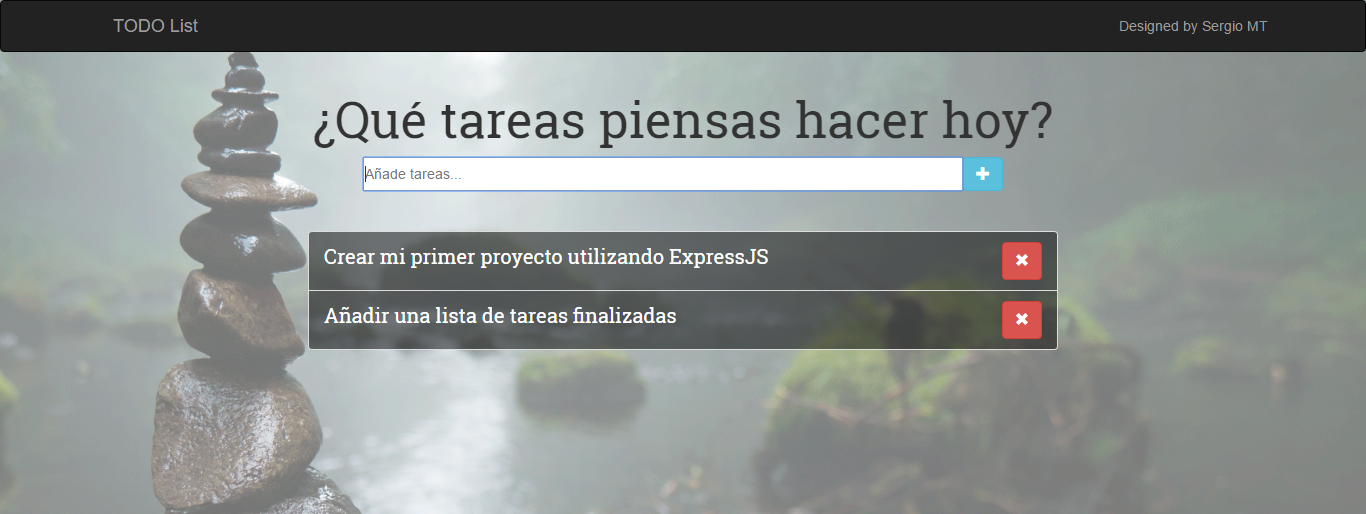
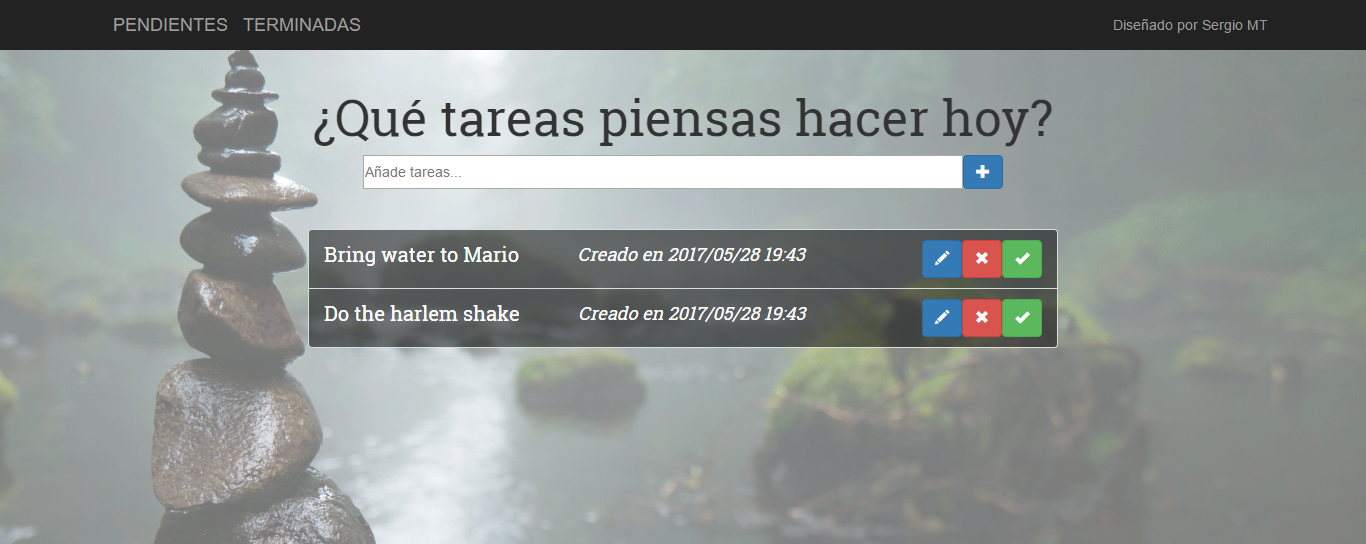
Last changes, done works!

diff --git a/client/js/main.js b/client/js/main.js
@@ -61,12 +61,10 @@ $('.list-tasks .done').on('click', function(e) {
     const $thisElement = $(this)
     const url = $thisElement.attr("href")
     const method = 'PUT'
+    const data = 'completed=' + true
 
-    $.ajax({url, method})
+    $.ajax({ url, method, data })
       .done( response => {
-      $thisElement
-        .parents('.list-group-item')
-          // .{completed:true}
-          .remove()
-    })
+        location.reload()
+      })
 })

diff --git a/server/models/Task.js b/server/models/Task.js
@@ -1,4 +1,6 @@
 const mongoose = require('mongoose')
+const moment = require('moment')
+
 const Schema = mongoose.Schema
 
 const TaskSchema = new Schema({
@@ -8,9 +10,12 @@ const TaskSchema = new Schema({
 		},
 		createdAt: {
 			type: Number,
-			default: +new Date
+			default: moment().valueOf()
 		},
-		modifiedAt: Number,
+		modifiedAt: {
+			type: Number,
+			default: moment().valueOf()
+		},
 		completed: {
 			type: Boolean,
 			default: false

diff --git a/client/css/styles.css b/client/css/styles.css
@@ -78,3 +78,11 @@ p .navbar-link:hover {
     justify-content: center;
     text-align: center;
 }
+
+.creation-date {
+    font-style: italic;
+    font-size: 18px;
+    display: flex;
+    justify-content: center;
+    align-items: center;
+}

diff --git a/README.md b/README.md
@@ -1,0 +1,38 @@
+# TO-DO LIST
+
+This repository contain a **task manager** made with **ExpressJS** and Mongoose.
+
+To watch the project you have to _clone it_, install **npm** modules and **Bower**.
+
+This project responds to `localhost:3000/tasks`
+
+
+![](client/img/example.png)
+
+
+## Available Actions
+
+### [**POST**] `tasks`
+
+Add a task just giving a title value.
+
+```bash
+    curl -X POST --data "title=Do the harlem shake" localhost:3000/tasks
+```
+
+### [**DELETE**] `task/:id`
+
+To remove elements from the task manager, you just need the id of the element.
+
+```bash
+    curl -X DELETE localhost:3000/task/592b10534828231a386a6aa5
+```
+
+### [**PUT**] `task/:id`
+
+To edit an element you just need the id. You can change the task from _pending_ to _done_ || change the title.
+
+```bash
+curl -X PUT --data "completed=true" localhost:3000/task/592b10534828231a386a6aa5
+curl -X PUT --data "title=Do the Best harlem shake" localhost:3000/task/592b10534828231a386a6aa5
+```
